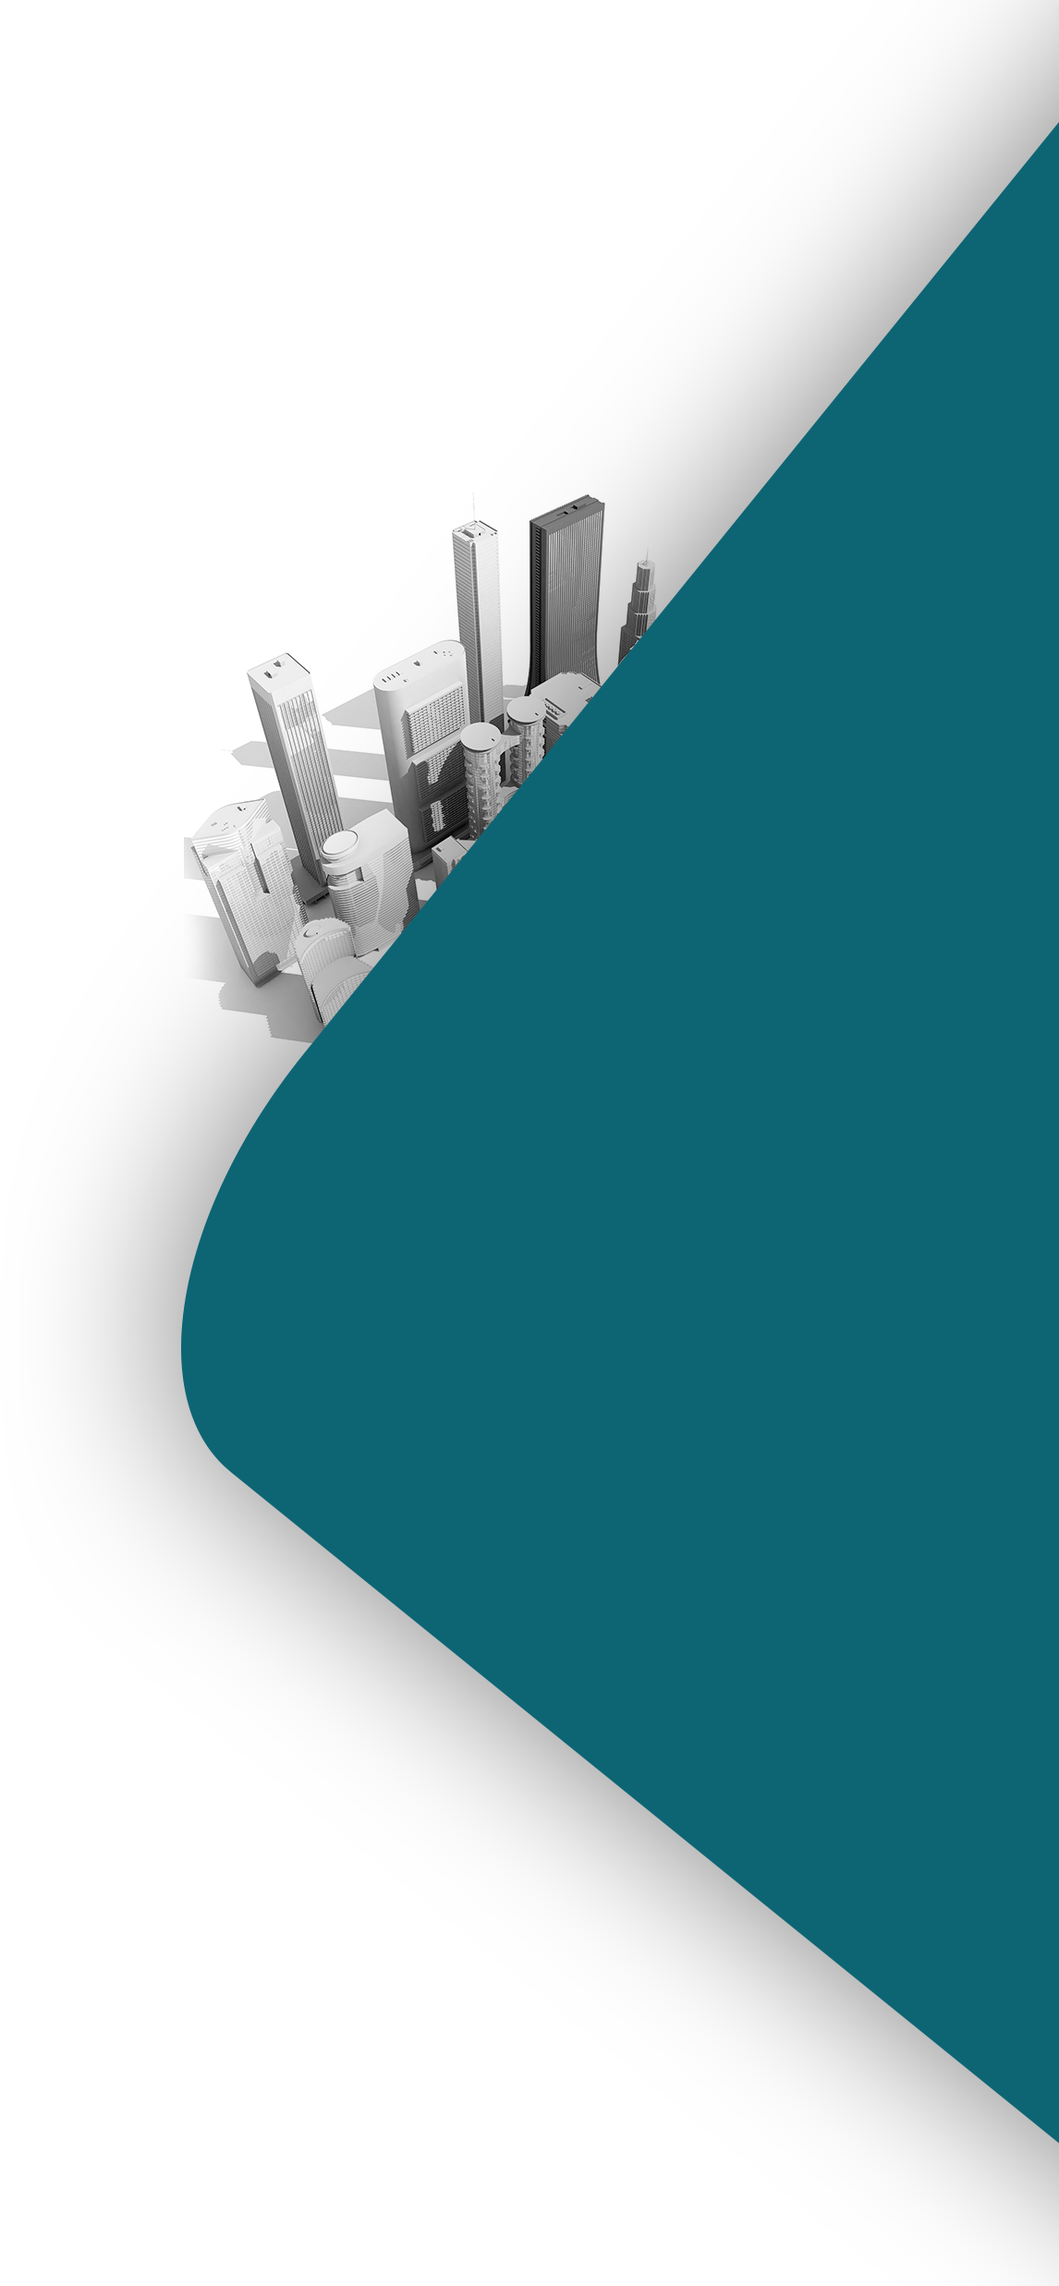
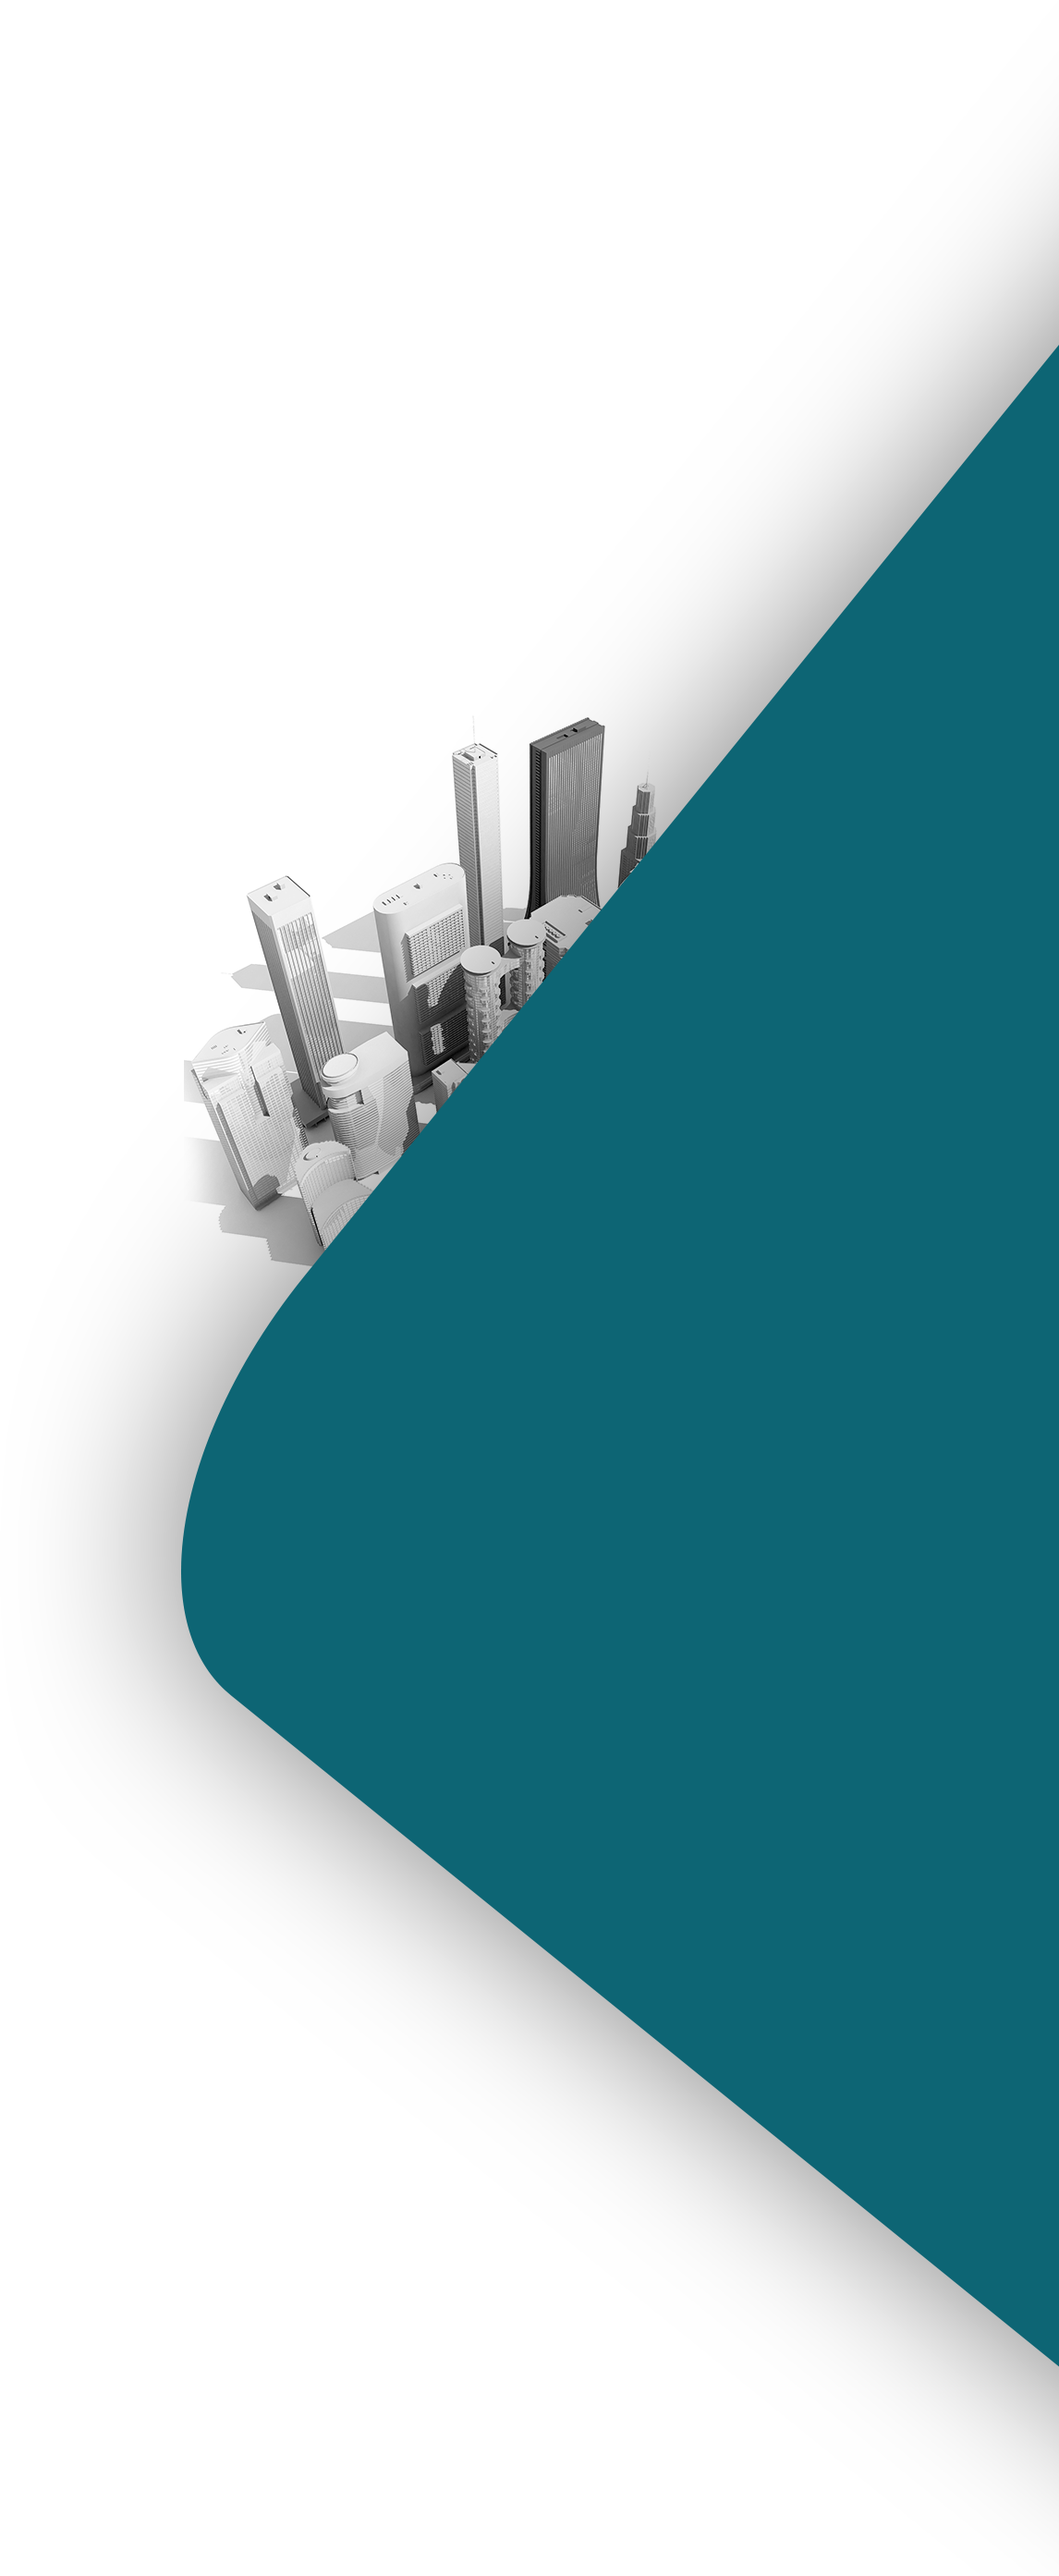
qq

diff --git a/css/style.scss b/css/style.scss
@@ -89,9 +89,9 @@
         left: 50%;
         transform: translate(-50%, -50%);
         transform-origin: center;
-         animation: rotate-img 45s infinite linear;
+        animation: rotate-img 45s infinite linear;
     }
-    &:before{
+    &:before {
         content: '';
         display: block;
         position: absolute;
@@ -106,33 +106,30 @@
     }
 }
 
- 
-
-
 @keyframes rotate-img {
     0% {
-       transform: translate(-50%,-50%) rotate(0);
+        transform: translate(-50%, -50%) rotate(0);
     }
     100% {
-        transform: translate(-50%,-50%) rotate(360deg);
+        transform: translate(-50%, -50%) rotate(360deg);
     }
 }
 
 @-webkit-keyframes rotate-img {
     0% {
-       transform: translate(-50%,-50%) rotate(0);
+        transform: translate(-50%, -50%) rotate(0);
     }
     100% {
-        transform: translate(-50%,-50%) rotate(360deg);
+        transform: translate(-50%, -50%) rotate(360deg);
     }
 }
 
-.sec-lvl-2{
+.sec-lvl-2 {
     overflow: hidden;
-    .for-m-w{
+    .for-m-w {
         position: relative;
-        &:before{
-             content: "";
+        &:before {
+            content: "";
             display: block;
             position: absolute;
             right: 100%;
@@ -141,9 +138,8 @@
             height: 643px;
             background-image: url(../img/melnitsa.jpg);
             background-repeat: no-repeat;
-            
         }
-        &:after{
+        &:after {
             content: "";
             display: block;
             position: absolute;
@@ -155,18 +151,18 @@
             background-repeat: no-repeat;
         }
     }
-    .sliders-wr{
+    .sliders-wr {
         width: 65%;
         position: relative;
         z-index: 10;
-        .my-sl-nav{
+        .my-sl-nav {
             position: relative;
             display: flex;
             align-items: center;
             justify-content: space-between;
-              margin-bottom: 30px;
+            margin-bottom: 30px;
             padding-bottom: 10px;
-            &:before{
+            &:before {
                 content: "";
                 display: block;
                 position: absolute;
@@ -175,9 +171,8 @@
                 width: 333px;
                 height: 3px;
                 background: #60a303;
-              
             }
-            span{
+            span {
                 font-family: "BebasNeueReg";
                 font-size: 30px;
                 color: #a9a9a9;
@@ -185,32 +180,31 @@
                 cursor: pointer;
                 font-weight: bold;
                 line-height: 52px;
-                &.active{
+                &.active {
                     font-size: 48px;
-                    
                     color: #000;
                 }
             }
         }
     }
-    .sl-2{
-        .slide{
+    .sl-2 {
+        .slide {
             outline: none;
-            .mw-my{
+            .mw-my {
                 max-width: 555px;
-                p{
+                p {
                     font-family: "Montserrat-ExtraLight";
                     font-size: 18px;
                 }
             }
-            &:last-child{
-                .mw-my{
+            &:last-child {
+                .mw-my {
                     margin-left: auto;
                     text-align: right;
                 }
             }
         }
-        .slick-arrow{
+        .slick-arrow {
             display: block;
             position: absolute;
             top: -117px;
@@ -229,11 +223,10 @@
             -webkit-transition: 0.3s;
             transition: 0.3s;
             cursor: pointer;
-           
             &.slick-next {
                 right: -50px;
             }
-            &.slick-prev{
+            &.slick-prev {
                 -webkit-transform-origin: center;
                 transform-origin: center;
                 -webkit-transform: rotate(180deg);
@@ -241,21 +234,21 @@
                 top: -135px;
                 left: -50px;
             }
-            &.slick-disabled{
+            &.slick-disabled {
                 opacity: 0;
             }
         }
     }
-    .max_width_container{
-        .slider-wr-team{
+    .max_width_container {
+        .slider-wr-team {
             padding: 60px 0 30px 0;
-            h3{
+            h3 {
                 position: relative;
                 font-size: 48px;
                 font-family: "BebasNeueReg";
                 text-align: center;
                 margin-bottom: 70px;
-                &:before{
+                &:before {
                     content: "";
                     display: block;
                     width: 70px;
@@ -265,7 +258,6 @@
                     left: 50%;
                     transform: translateX(-50%);
                     background: #56b854;
-                    
                 }
             }
             .for-padd {
@@ -354,40 +346,36 @@
                     }
                 }
             }
-                
-            
         }
     }
 }
 
-.main-counters{
+.main-counters {
     padding: 260px 0 120px 0;
-    .rel-wrapp{
+    .rel-wrapp {
         position: relative;
         display: flex;
-        
-        .left-side{
-                padding-top: 60px;
+        .left-side {
+            padding-top: 60px;
             width: 47%;
             position: relative;
             z-index: 10;
-            .for-flex-line{
+            .for-flex-line {
                 display: flex;
                 margin-bottom: 100px;
             }
-            .main-counter{
+            .main-counter {
                 display: flex;
                 justify-content: center;
                 align-items: center;
                 flex-direction: column;
-                p{
+                p {
                     color: #0c142b;
                     font-size: 65px;
                     font-family: "BebasNeueReg";
                     font-weight: bold;
-                    
                 }
-                span{
+                span {
                     font-family: "BebasNeueReg";
                     font-size: 70px;
                     color: #fd7400;
@@ -408,7 +396,6 @@
                 align-items: center;
                 flex-direction: column;
             }
-           
             canvas {
                 position: absolute;
                 top: 0;
@@ -416,78 +403,74 @@
                 -webkit-transform: translateX(-50%);
                 transform: translateX(-50%);
             }
-                
-            
         }
-        .right-side{
-                padding-top: 200px;
+        .right-side {
+            padding-top: 200px;
             width: 53%;
             display: flex;
             align-items: flex-end;
             flex-direction: column;
             position: relative;
-            .hard-bg-2{
-                    left: -147px;
+            .hard-bg-2 {
+                left: -147px;
                 position: absolute;
                 top: 50%;
-               
                 width: 1146px;
-                height: 2474px;
+                height: 2787px;
                 transform: translateY(-50%);
                 background-image: url(../img/hard-bg-2.png);
                 background-repeat: no-repeat;
-                    top: calc(50% + 34px);
+                top: calc(50% - 46px);
             }
-            p{
+            p {
                 position: relative;
                 z-index: 10;
             }
-            .hh{
+            .hh {
                 color: #fff;
                 font-size: 18px;
                 font-family: "Montserrat-Regular";
                 top: 40px;
             }
-            .outher-counters{
+            .outher-counters {
                 position: relative;
                 top: 61px;
-                .pie{
+                .pie {
                     line-height: normal !important;
                     position: relative;
                     display: flex;
                     justify-content: center;
                     align-items: center;
-                     canvas {
+                    canvas {
                         position: absolute;
                         top: 0;
                         left: 50%;
                         -webkit-transform: translateX(-50%);
                         transform: translateX(-50%);
                     }
-                    &.circular-pie_3{
-                        canvas{
+                    &.circular-pie_3 {
+                        canvas {
                             transform: translateX(-50%) rotate(200deg);
                         }
                     }
-                     &.circular-pie_4{
-                        canvas{
+                    &.circular-pie_4 {
+                        canvas {
                             transform: translateX(-50%) rotate(262deg);
                         }
                     }
                 }
-                
-                .one-counter{
+                .one-counter {
                     display: flex;
                     align-items: center;
                     margin-bottom: 25px;
-                    span{
+                    span {
                         display: block;
                         font-family: "BebasNeueReg";
                         color: #fff;
                         font-size: 30px;
                         font-weight: bold;
                     }
-                    p{
+                    p {
                         padding-left: 20px;
                         position: relative;
                         z-index: 10;
@@ -498,11 +481,10 @@
                 }
             }
         }
-        
     }
 }
-#what_we_offer{
+
+#what_we_offer {
     position: relative;
     z-index: 10;
 }
-

diff --git a/css/style.css b/css/style.css
@@ -345,11 +345,11 @@
         position: absolute;
         top: 50%;
         width: 1146px;
-        height: 2474px;
+        height: 2787px;
         transform: translateY(-50%);
         background-image: url(../img/hard-bg-2.png);
         background-repeat: no-repeat;
-        top: calc(50% + 34px); }
+        top: calc(50% - 46px); }
       .main-counters .rel-wrapp .right-side p {
         position: relative;
         z-index: 10; }
